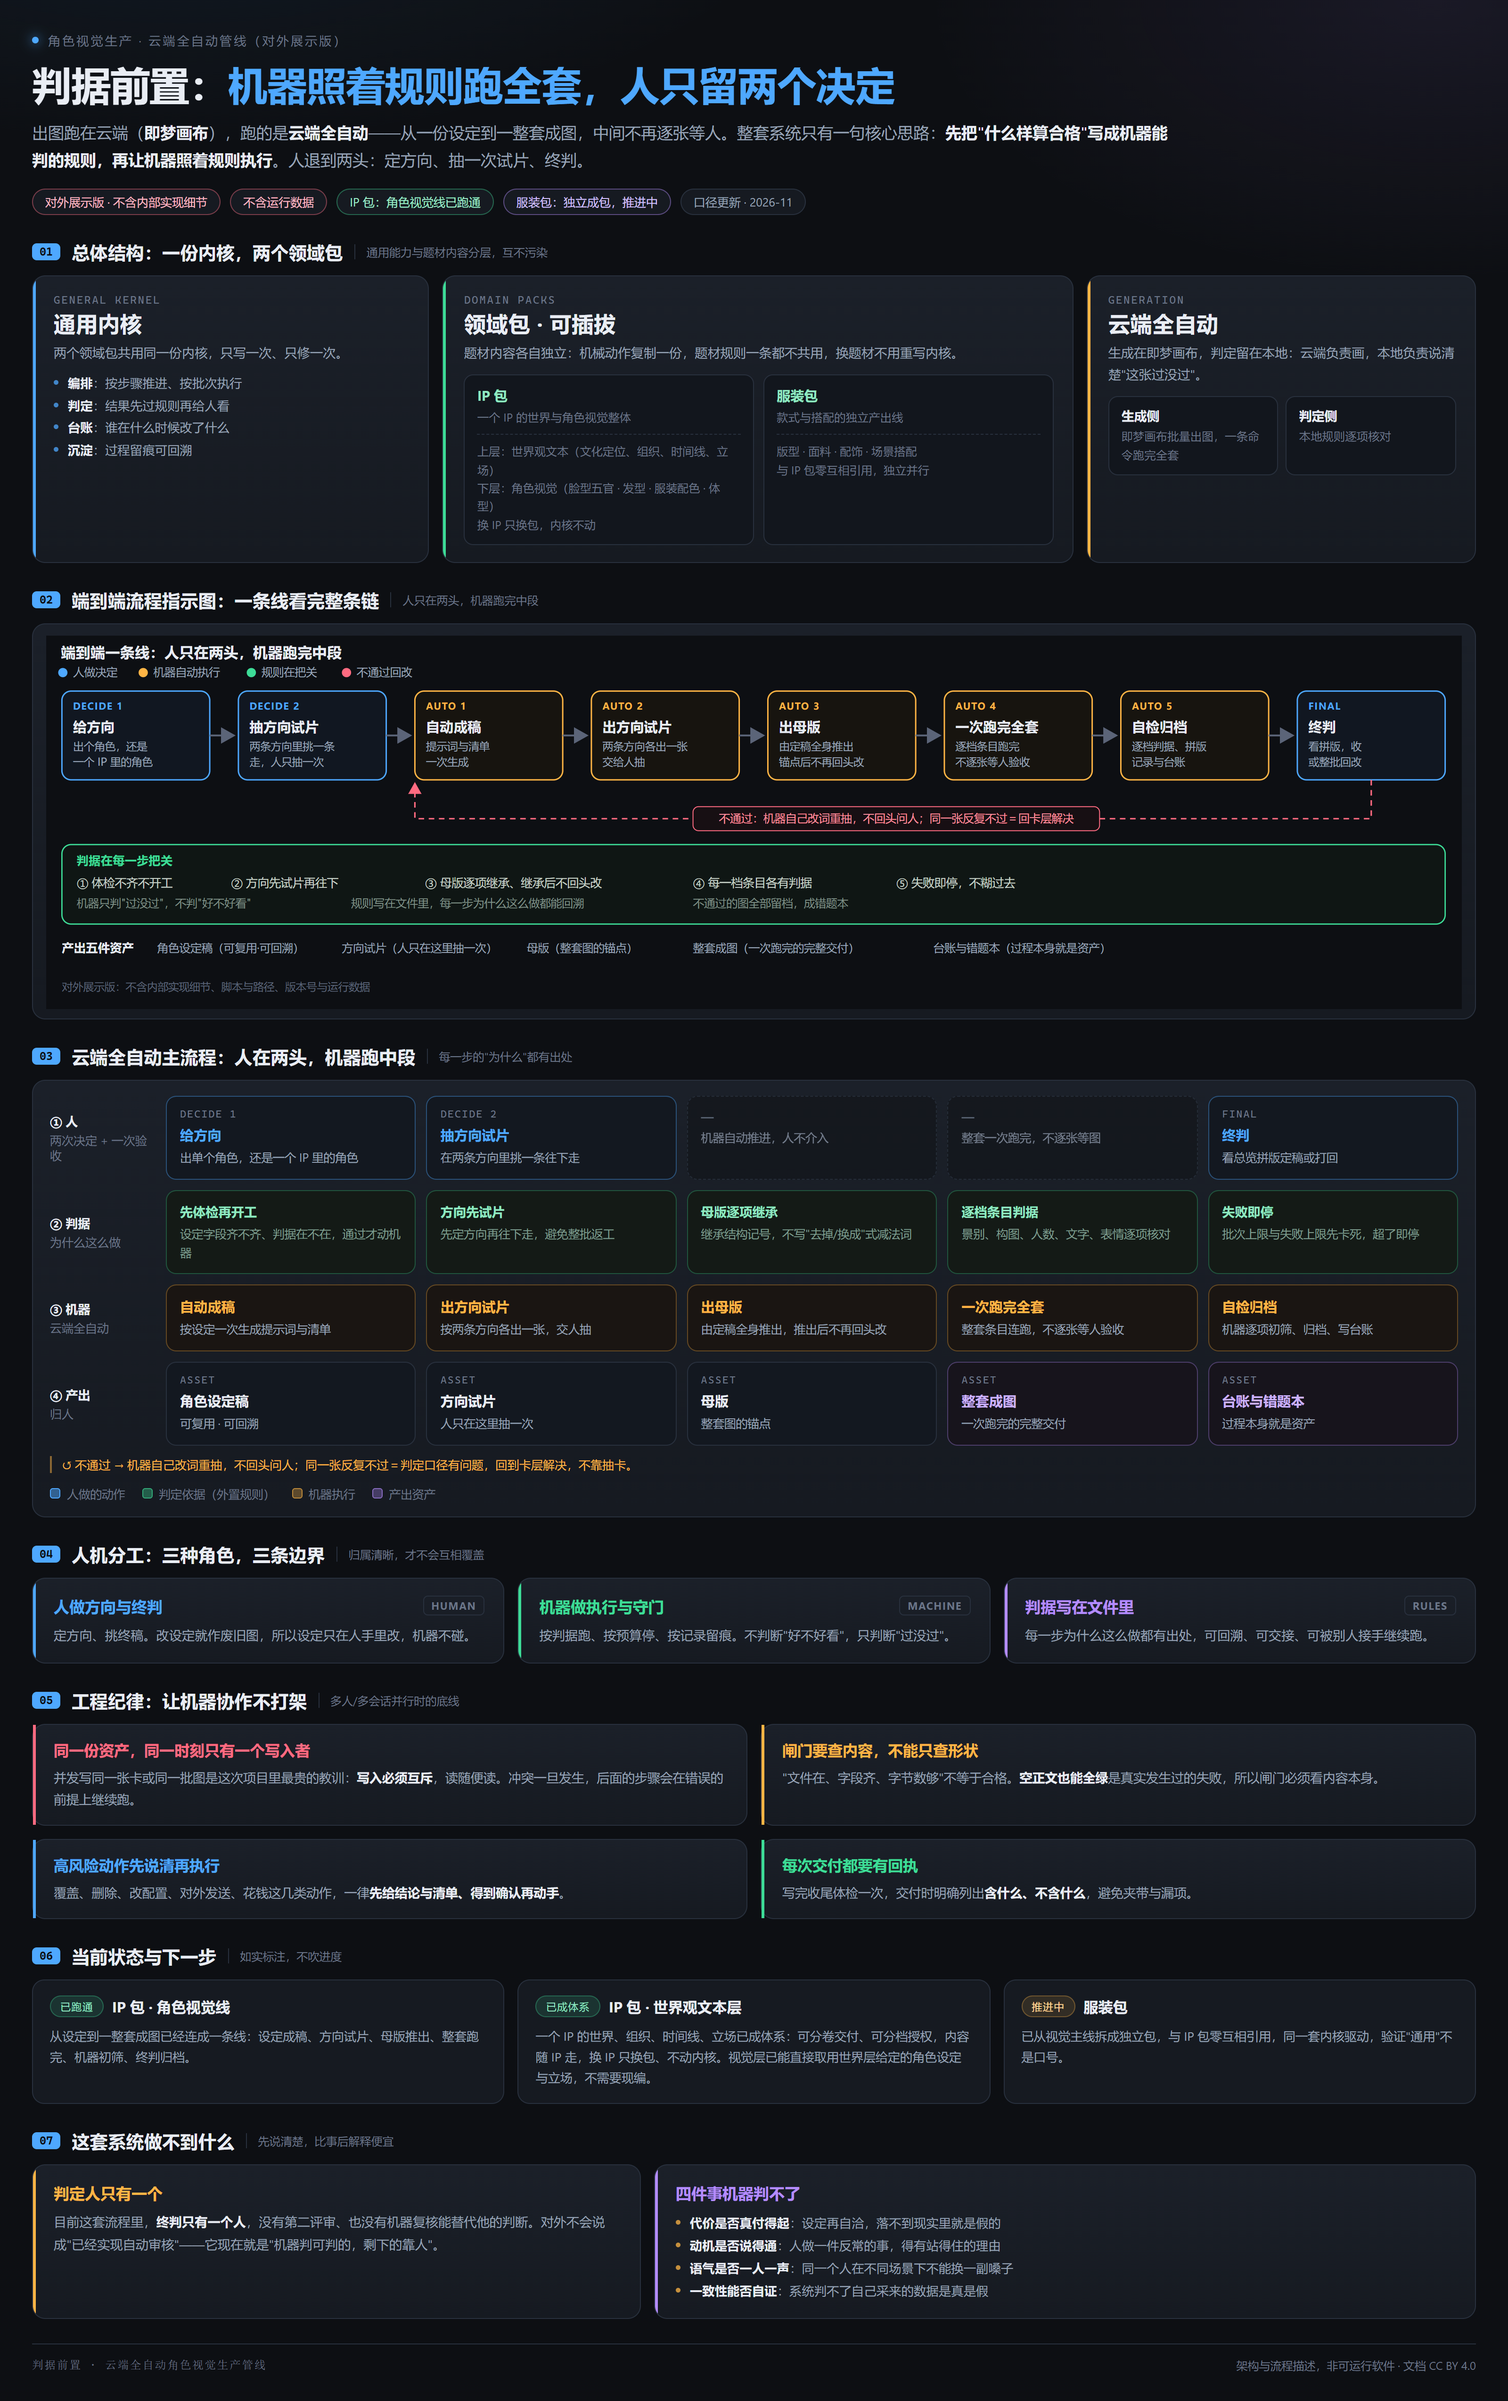
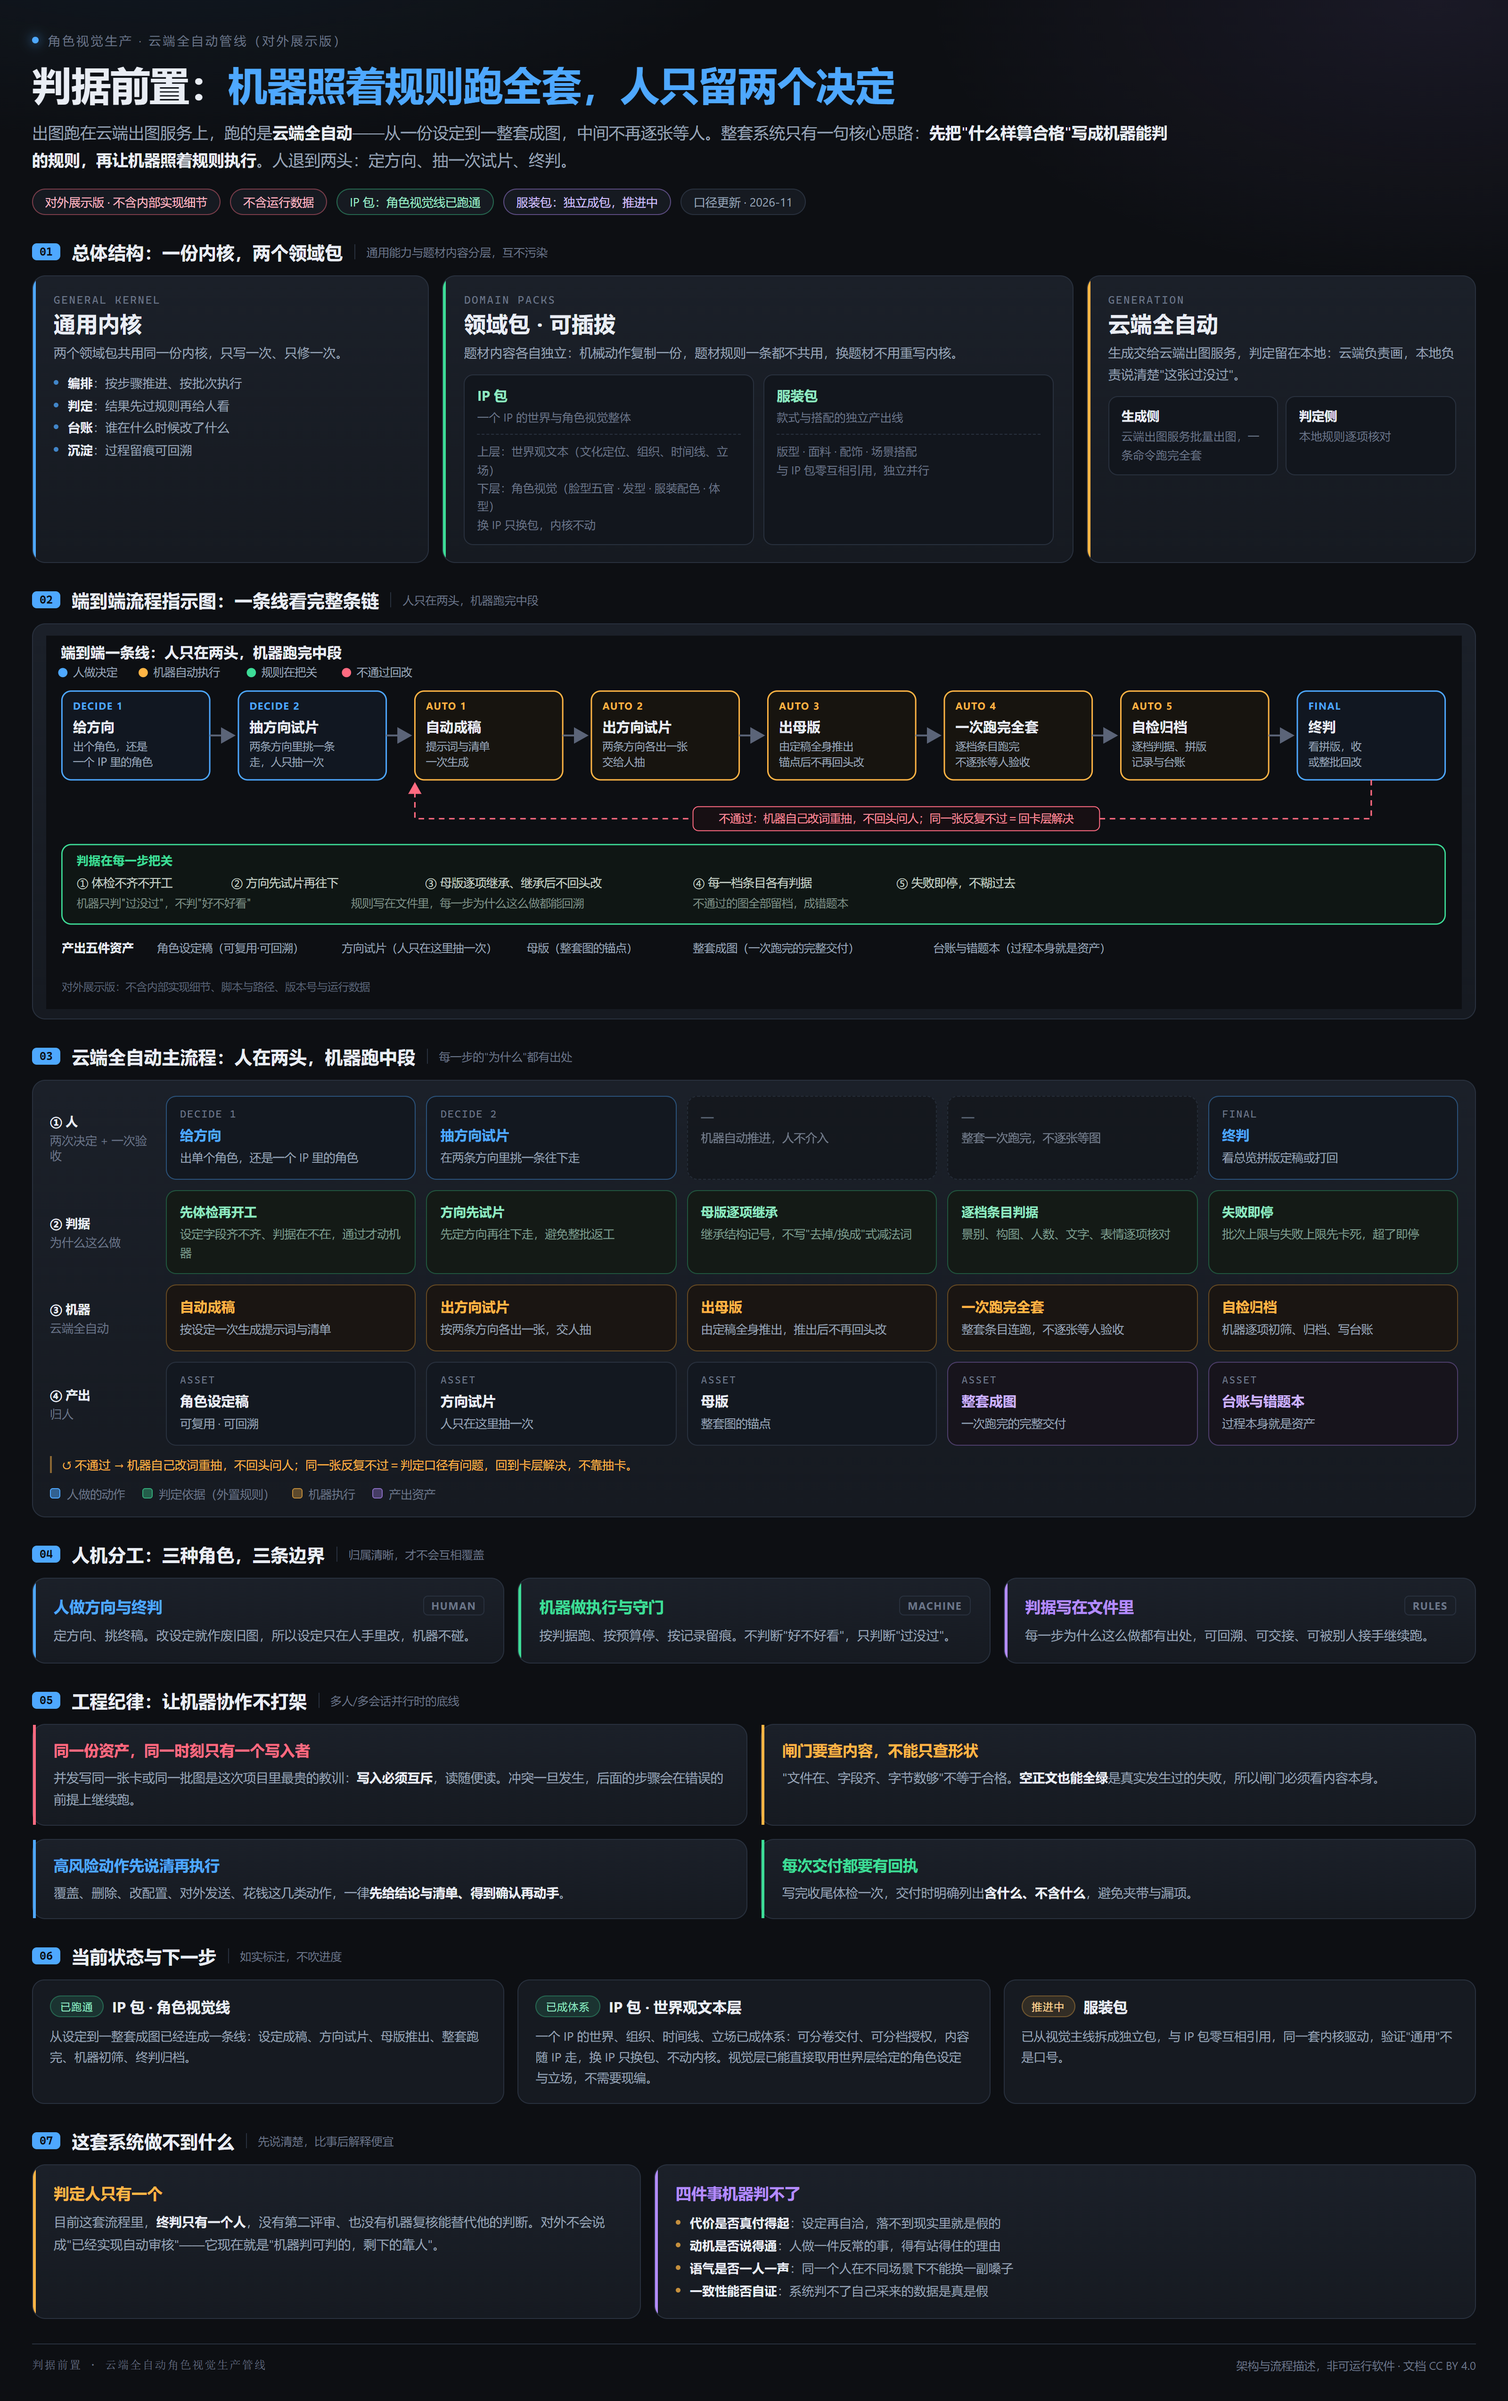
docs: 架构图去掉平台名，生成侧改为中性表述
「即梦画布」改为「云端出图服务」；重导 poster@2x.png；README 补一句生成侧是插槽

Changed region(s): [[0.0312, 0.0312, 0.75, 0.0937], [0.75, 0.1249, 0.875, 0.1874]]

diff --git a/assets/poster.html b/assets/poster.html
@@ -136,7 +136,7 @@
   <header>
     <div class="eyebrow"><span class="dot"></span>角色视觉生产 · 云端全自动管线（对外展示版）</div>
     <h1>判据前置：<em>机器照着规则跑全套，人只留两个决定</em></h1>
-    <p class="sub">出图跑在云端（<b>即梦画布</b>），跑的是<b>云端全自动</b>——从一份设定到一整套成图，中间不再逐张等人。整套系统只有一句核心思路：<b>先把"什么样算合格"写成机器能判的规则，再让机器照着规则执行</b>。人退到两头：定方向、抽一次试片、终判。</p>
+    <p class="sub">出图跑在云端出图服务上，跑的是<b>云端全自动</b>——从一份设定到一整套成图，中间不再逐张等人。整套系统只有一句核心思路：<b>先把"什么样算合格"写成机器能判的规则，再让机器照着规则执行</b>。人退到两头：定方向、抽一次试片、终判。</p>
     <div class="head-meta">
       <span class="chip hot">对外展示版 · 不含内部实现细节</span>
       <span class="chip hot">不含运行数据</span>
@@ -184,9 +184,9 @@
         <div class="bar"></div>
         <div class="k">GENERATION</div>
         <div class="big">云端全自动</div>
-        <p>生成在即梦画布，判定留在本地：云端负责画，本地负责说清楚"这张过没过"。</p>
+        <p>生成交给云端出图服务，判定留在本地：云端负责画，本地负责说清楚"这张过没过"。</p>
         <div class="split">
-          <div><div class="t">生成侧</div><div class="d">即梦画布批量出图，一条命令跑完全套</div></div>
+          <div><div class="t">生成侧</div><div class="d">云端出图服务批量出图，一条命令跑完全套</div></div>
           <div><div class="t">判定侧</div><div class="d">本地规则逐项核对</div></div>
         </div>
       </div>

diff --git a/README.md b/README.md
@@ -20,6 +20,8 @@
 
 这类图最容易崩的不是画风，是「换个角度就变人」。管线里的一致性判据就是专门拦这个的。
 
+> 生成侧是插槽：本地 ComfyUI（上图就是）和云端出图服务都跑过同一条线。换的是画图的机器，不换的是判据、台账与流程。
+
 ---
 
 ## 它解决什么问题
